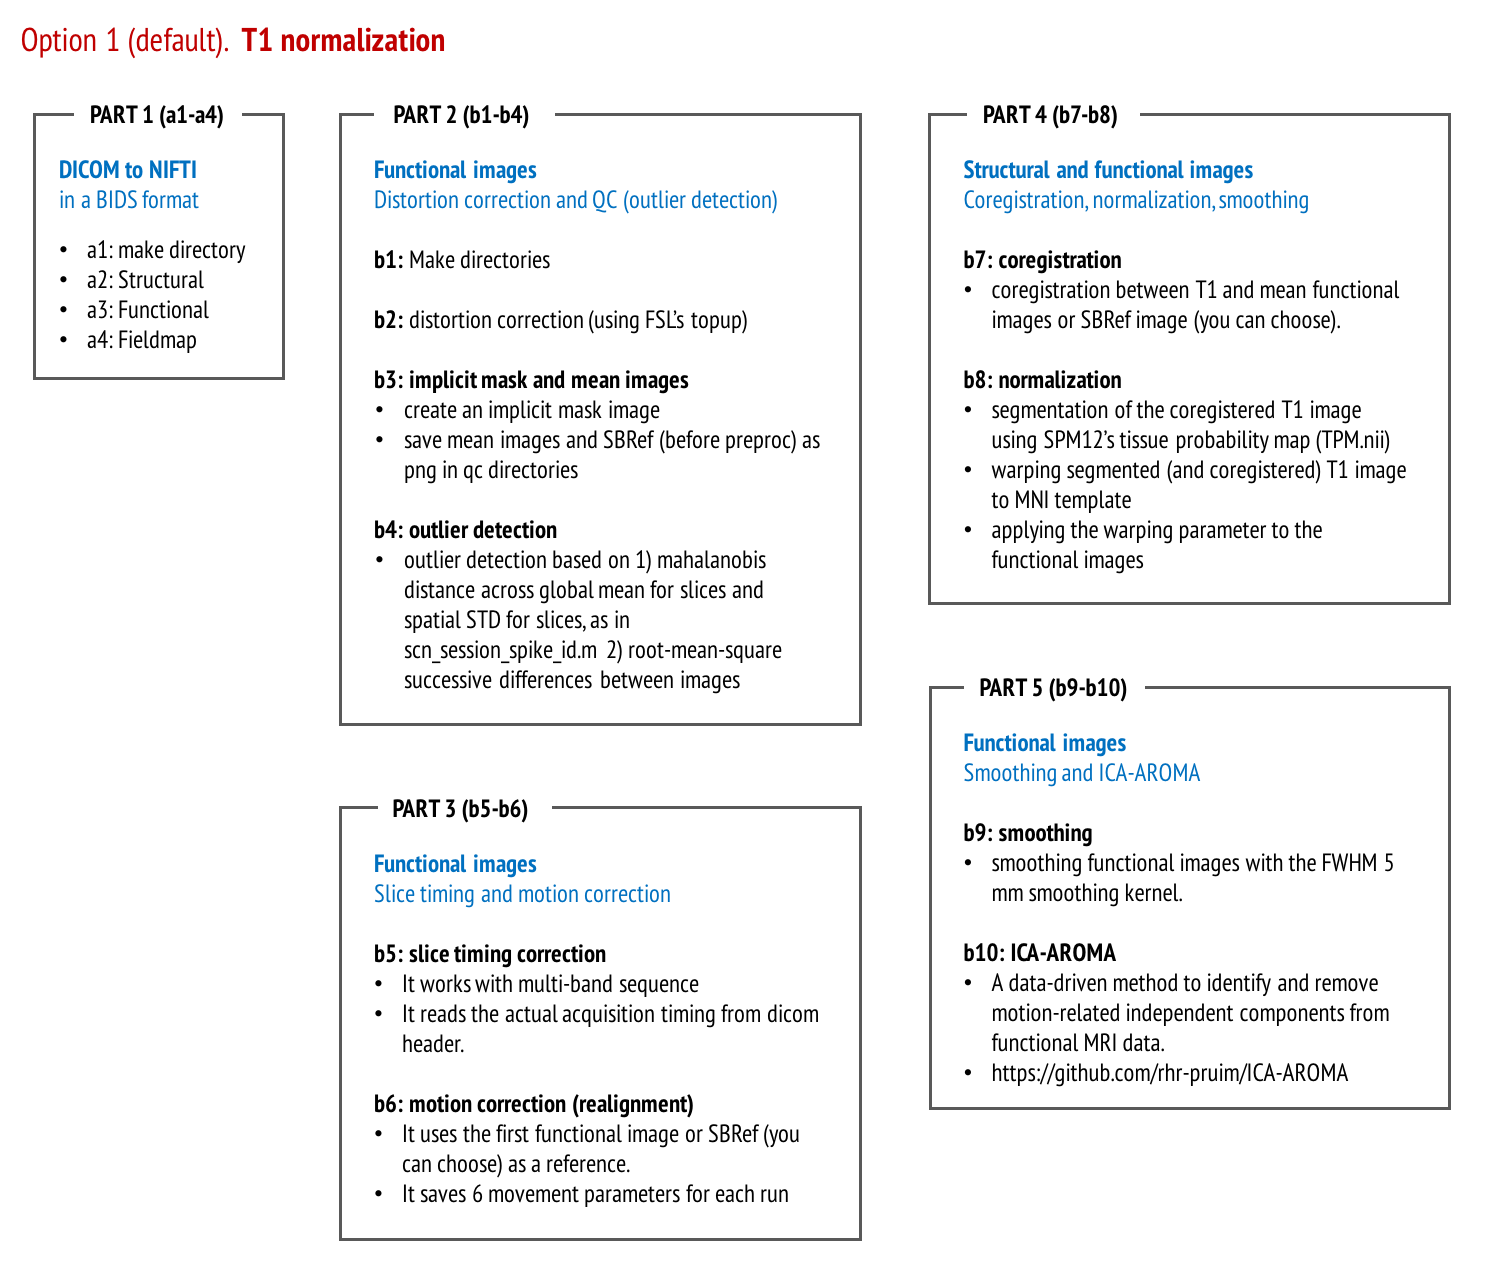
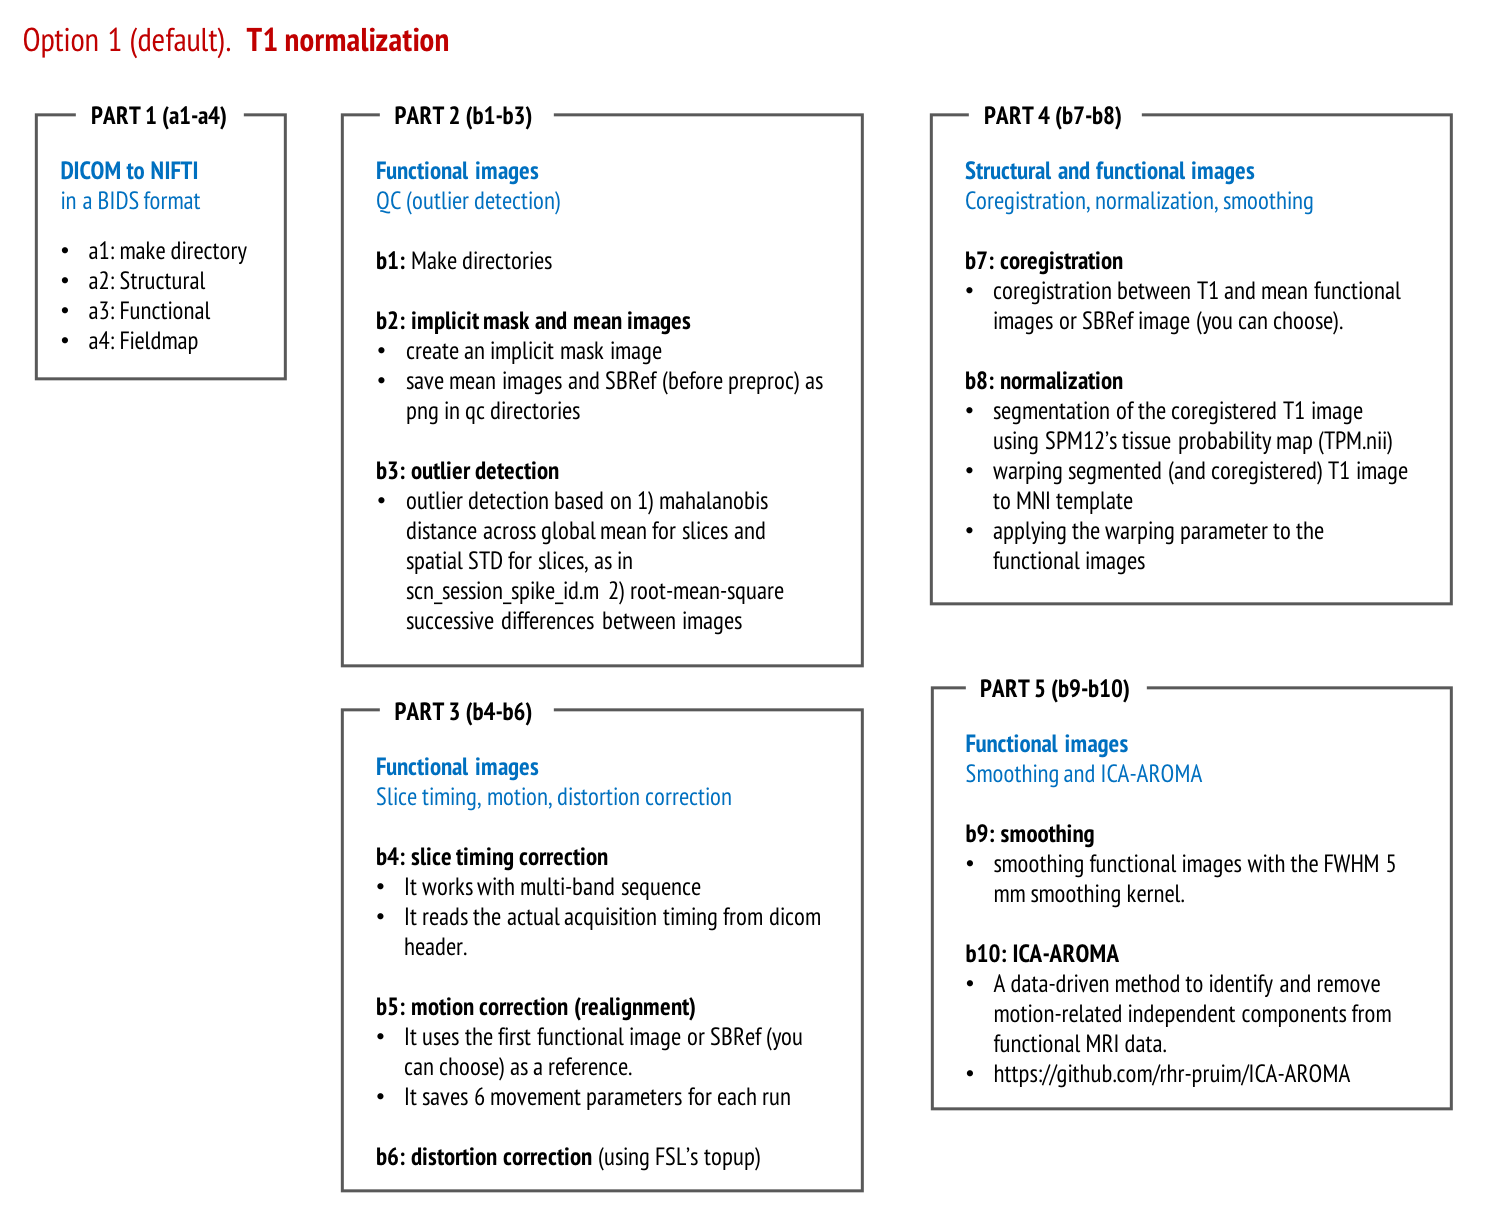
updates pipeline figures and example codes

diff --git a/examples/example_code2_fast.m b/examples/example_code2_fast.m
@@ -1,15 +1,10 @@
-scriptdir = '/Users/clinpsywoo/github/humanfmri_preproc_bids';
-addpath(scriptdir);
-
-study_imaging_dir = '/Users/clinpsywoo/Dropbox/projects/ongoing_projects/preproc_pipeline/CAPS2_preproc_test/Imaging';
-subject_code = {'sub-caps003'};
-% multiple subjects: 
-% subject_code = {'sub-caps001', 'sub-caps002', 'sub-caps003', 'sub-caps004'};
+study_imaging_dir = '/Volumes/accumbens/hbmnas/data/FAST/imaging';
+subject_code = 'sub-fast002';
 
 % run numbers and task names
-func_run_nums = [1 2 3 4]; 
-func_tasks = {'CAPS', 'QUIN', 'REST', 'ODOR'};
-disdaq_n = [20 20 20 20];
+func_run_nums = [1 2 3 4 5 6 7 8 9];
+func_tasks = {'resting', 'wordgen', 'fastfmri', 'wordgen', 'fastfmri', 'wordgen', 'fastfmri', 'wordgen', 'fastfmri'};
+disdaq_n = repmat(20, 1, 9);
 
 % preproc_subject_dir = fullfile(study_imaging_dir, 'preprocessed', subject_code);
 
@@ -31,16 +26,20 @@ humanfmri_a1_make_directories(subject_code, study_imaging_dir, func_run_nums, fu
 % into the corresponding directories. 
 
 %% A-2. Dicom to nifti: structural
+% d=datetime('now')
+% A-2. Dicom to nifti: anat(T1)
 
 humanfmri_a2_structural_dicom2nifti_bids(subject_code, study_imaging_dir);
 
-%% A-3. Dicom to nifti: functional
+% A-3. Dicom to nifti: functional(Run 1~9)
 
 humanfmri_a3_functional_dicom2nifti_bids(subject_code, study_imaging_dir, disdaq_n);
 
-%% A-4. Dicom to nifti: fmap
+% A-4. Dicom to nifti: fmap(Distortion correction)
 
 humanfmri_a4_fieldmap_dicom2nifti_bids(subject_code, study_imaging_dir);
+
+% d=[d datetime('now')]
 
 %% Done with A Part =======================================================
 
@@ -54,62 +53,68 @@ humanfmri_a4_fieldmap_dicom2nifti_bids(subject_code, study_imaging_dir);
 % PART B: --------------------
 % 3. disdaq & visualization/qc (canlab)
 % 4. motion correction (realignment) 
-% 5. distortion correction
-% 6. EPI normalization 
-% 7. Smoothing
-% ***(needs to be tested)***8. ICA-AROMA
+% 5. EPI normalization 
+% 6. Smoothing
+% 7. ICA-AROMA
 % ----------------------------
 
-%% B-1. Preproc directories
+%% PART3: 
+% B-1. Preproc directories
+study_imaging_dir = '/Volumes/accumbens/hbmnas/data/FAST/imaging';
+subject_code = {'sub-fast002'};
 
 preproc_subject_dir = humanfmri_b1_preproc_directories(subject_code, study_imaging_dir);
 
-
-%% B-2. Implicit mask and save means
+% B-2. Implicit mask and save means
 
 humanfmri_b2_functional_implicitmask_savemean(preproc_subject_dir);
 
-%% B-3. Spike id
+% B-3. Spike id
 
 humanfmri_b3_spike_id(preproc_subject_dir);
 
-%% B-4. Slice timing correction if needed: You can skip this if TR is short enough
+% B-4. Slice timing correction if needed: You can skip this if TR is short enough
 
 % tr = .46;
 % mbf = 8;
 % 
 % humanfmri_b4_slice_timing(preproc_subject_dir, tr, mbf);
 
-%% B-5. Motion correction
+% B-5. Motion correction
 
 use_st_corrected_data = false;
 use_sbref = true;
 humanfmri_b5_motion_correction(preproc_subject_dir, use_st_corrected_data, use_sbref);
+% d=[d datetime('now')]
 
-%% B-6. HCP distortion correction
-
+%% B-6. distortion correction
 epi_enc_dir = 'ap';
-humanfmri_b6_distortion_correction(preproc_subject_dir, epi_enc_dir, use_sbref);
+humanfmri_b6_distortion_correction(preproc_subject_dir, epi_enc_dir, use_sbref)
 
-%% B-7. coregistration (spm_check_registration.m)
+%% PART 4
+% B-7. coregistration (spm_check_registration.m)
 
+use_sbref = true;
 humanfmri_b7_coregistration(preproc_subject_dir, use_sbref);
-% no check registration
-% humanfmri_b7_coregistration(preproc_subject_dir, use_sbref, 'no_check_reg');
+%humanfmri_b7_coregistration(preproc_subject_dir, use_sbref, 'no_check_reg');
 
-%% B-8. T1 Normalization
+%% B-8-1. T1 Normalization
 
 humanfmri_b8_normalization(preproc_subject_dir, use_sbref);
-% no check registration
 % humanfmri_b8_normalization(preproc_subject_dir, use_sbref, 'no_check_reg');
 
-%% B-9. Smoothing
-
+%% B-10. Smoothing
 humanfmri_b9_smoothing(preproc_subject_dir);
 
-%% B-10. ICA-AROMA
+%% B-11. ICA-AROMA (currently not using)
 
-humanfmri_b10_ICA_AROMA(preproc_subject_dir);
+% humanfmri_b10_ICA_AROMA(preproc_subject_dir, 'ica_aroma_dir', '/Volumes/accumbens/Resource/ICA-AROMA', ...
+%     'anaconda_dir', '/Users/admin/anaconda/bin');
 
+%% Manual check
 
-
+% for each subject
+% 1) check qc_images
+% 2) check_registration for coreg and normalization
+spm_check_registration(PREPROC.coreg_anat_file, PREPROC.dc_func_sbref_files{1});
+spm_check_registration(which('keuken_2014_enhanced_for_underlay.img'), PREPROC.wcoreg_anat_file{1});
